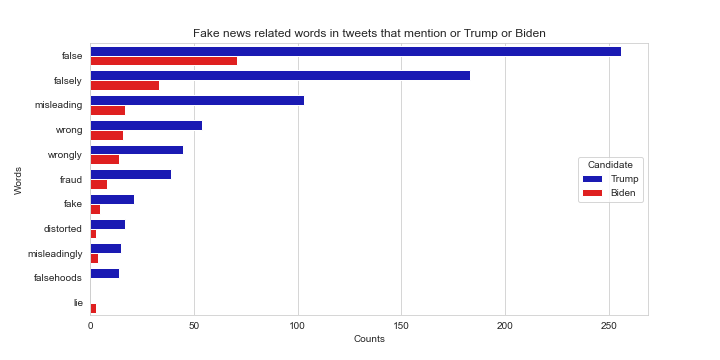
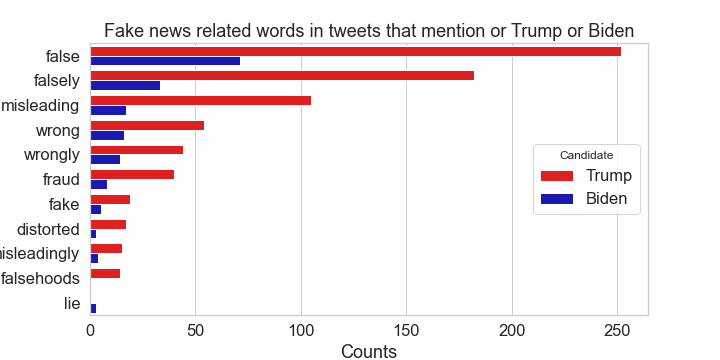
right_colors

diff --git a/Mod_2_DataAnalysis.py b/Mod_2_DataAnalysis.py
@@ -209,7 +209,7 @@ def compare_tweets():
     sns.set_style('whitegrid')
     plt.figure(figsize=(10,5))
     # create plot
-    sns.barplot(x = 'counts', y= "word", data = merged_df, hue="Candidate", palette=("mediumblue","red"))
+    sns.barplot(x = 'counts', y= "word", data = merged_df, hue="Candidate", palette=("red", "mediumblue"))
     plt.title('Fake news related words in tweets that mention or Trump or Biden')
     plt.xlabel('Counts')
     plt.ylabel('Words')
